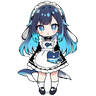
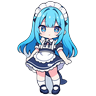
v0.10.2：修鲸尾灰鳍缺陷+启动空屏—— ①主锚定 555 裙摆右侧灰色刃为全图派生源缺陷：用 271828 大鲸尾候选 PIL 合成移植（擦灰刃(492,848,682,985)+羽化贴尾(545,800)-(800,1085)+近白清理）得 masterB_555_tailled_final，30 张全部重新派生入仓；左鳍为正常鲸尾勿擦 ②window init 多余 setText('') 会清掉刚显示的表情/位图（启动空屏回归，offscreen 测试捕获）；删之 ③新增 spikes/test_v10_ai_provider.py 11/11（30张解析/降级/skin/get_

diff --git a/spikes/test_v10_ai_provider.py b/spikes/test_v10_ai_provider.py
@@ -1,0 +1,130 @@
+"""v0.10 AIArtProvider 接入验证（win 端，offscreen 渲染）。
+
+覆盖：① 30 张 (stage,branch,mood) 静态图全部可解析且文件存在
+② 缺文件/空目录 → 降级 EmojiProvider 不崩
+③ skin 非 default 后缀 + 缺失降级
+④ get_frames 返回 AI 静帧单帧（v0.10.1 防闪烁约定）
+⑤ WindowBase 渲染分支：file→QPixmap、emoji→文本、启动即显示（非空）
+"""
+import os
+import sys
+import tempfile
+
+os.environ.setdefault("QT_QPA_PLATFORM", "offscreen")
+sys.path.insert(0, os.path.dirname(os.path.dirname(os.path.abspath(__file__))))
+
+from PySide6.QtWidgets import QApplication
+
+app = QApplication.instance() or QApplication([])
+
+from pet.asset_provider import AIArtProvider, EmojiProvider
+from pet.behavior import ActionType
+from pet.pet_state import Branch, Mood, PetState, Stage
+from pet.window import WindowBase
+
+ASSETS = os.path.join(
+    os.path.dirname(os.path.dirname(os.path.abspath(__file__))), "assets", "ai"
+)
+SIZE = {"young": 64, "adult": 96, "final": 128}
+
+passed = 0
+
+
+def ok(name: str) -> None:
+    global passed
+    passed += 1
+    print(f"  ✅ {name}")
+
+
+def state_for(stage, branch, mood):
+    m = {"happy": 80, "neutral": 30, "sad": 10}
+    return PetState(
+        mood=m.get(mood, 80),
+        fullness=10 if mood == "hungry" else 80,
+        stage=Stage(stage),
+        branch=Branch(branch),
+    )
+
+
+def mood_for(state, provider, idle=None) -> Mood:
+    if idle is not None:
+        return provider.get_static(state).path and None
+    return None
+
+
+# ---------- ① 30 张全部可解析 ----------
+print("== ① 30 张静态图解析 ==")
+p_ai = AIArtProvider(idle_fn=None)
+for stage in ("young", "adult", "final"):
+    for branch in ("healthy", "neglected"):
+        for mood in ("happy", "neutral", "sad", "sleepy", "hungry"):
+            state = state_for(stage, branch, mood)
+            # sleepy/hungry 直接构造 mood 文件路径：sleepy 走 idle、hungry 走 fullness
+            sr = AIArtProvider(
+                idle_fn=(lambda: 700.0) if mood == "sleepy" else None
+            ).get_static(state)
+            expect = f"{stage}_{branch}_{mood}.png"
+            assert sr.path.endswith(expect), f"{expect} -> {sr.path}"
+            assert os.path.isfile(sr.path), f"{sr.path} 文件不存在!"
+            assert sr.width == SIZE[stage] and sr.height == SIZE[stage]
+ok("全部 30 张路径解析/文件存在/尺寸正确")
+
+# ①b 情绪→mood 判定抽查
+assert AIArtProvider().get_static(state_for("adult", "healthy", "happy")).path.endswith("adult_healthy_happy.png")
+assert AIArtProvider().get_static(state_for("adult", "healthy", "sad")).path.endswith("adult_healthy_sad.png")
+assert AIArtProvider(idle_fn=lambda: 700.0).get_static(state_for("adult", "healthy", "sleepy")).path.endswith("_sleepy.png")
+assert AIArtProvider().get_static(state_for("adult", "healthy", "hungry")).path.endswith("_hungry.png")
+ok("情绪判定（happy/sad/sleepy-idle/hungry）正确")
+
+# ---------- ② 缺文件降级 ----------
+print("== ② 缺失降级 ==")
+p_empty = AIArtProvider(assets_dir=tempfile.mkdtemp())
+sr = p_empty.get_static(state_for("adult", "healthy", "neutral"))
+assert not os.path.isfile(sr.path)  # 返回 emoji 字符串
+assert len(sr.path) <= 8  # emoji 字符
+ok("空目录 → emoji 降级不崩")
+sr = p_empty.get_frames(state_for("adult", "healthy", "neutral"), ActionType.MOVE_TO)
+assert len(sr) >= 1 and not os.path.isfile(sr[0].path)
+ok("降级 get_frames 正常")
+
+# ---------- ③ skin ----------
+print("== ③ skin 后缀 ==")
+sr = p_ai.get_static(state_for("adult", "healthy", "neutral"), skin="swimsuit")
+assert not os.path.isfile(sr.path)  # 无 swimsuit 文件 → emoji 降级
+ok("skin 自定义缺失 → 降级")
+
+# ---------- ④ get_frames AI 静帧 ----------
+print("== ④ get_frames ==")
+fr = p_ai.get_frames(state_for("adult", "healthy", "neutral"), ActionType.ANIMATE)
+assert len(fr) == 1 and fr[0].path.endswith("adult_healthy_neutral.png")
+ok("ANIMATE 返回 AI 静帧单帧（不闪 emoji）")
+
+# ---------- ⑤ 窗口渲染 ----------
+print("== ⑤ WindowBase 渲染 ==")
+# 5a 启动即显示（小图 64×64 模式）：init 后位图非空
+w = WindowBase(p_ai.get_static(state_for("young", "healthy", "neutral")))
+assert w._sprite.path.endswith("young_healthy_neutral.png")
+assert not w._label.pixmap().isNull(), "启动 AI 图必显示位图"
+ok("启动 AI 图 → pixmap 非空")
+# 5b emoji SpriteRef init → 文本非空
+we = WindowBase(EmojiProvider().get_static(state_for("young", "healthy", "neutral")))
+txt = we._label.text()
+assert txt and len(txt) >= 1, f"emoji 启动应为文本（实际 text={txt!r}）"
+assert we._label.pixmap().isNull(), "emoji 模式不应有位图"
+ok("启动 emoji → 文本非空（防 init 清屏回归）")
+# 5c 切换：file → emoji（QLabel.pixmap() 从不返回 None，空状态=isNull）
+w.set_sprite(EmojiProvider().get_static(state_for("adult", "healthy", "neutral")))
+assert w._label.text() and w._label.pixmap().isNull(), \
+    f"file→emoji: text={w._label.text()!r} pixnull={w._label.pixmap().isNull()}"
+ok("file→emoji 切换正确")
+# 5d emoji → file
+w.set_sprite(p_ai.get_static(state_for("adult", "healthy", "neutral")))
+assert not w._label.pixmap().isNull(), "emoji→file 应切位图"
+ok("emoji→file 切换正确")
+# 5e provider 链：on_state_change
+w.set_sprite_provider(p_ai)
+w.on_state_change(state_for("final", "neglected", "sad"))
+assert not w._label.pixmap().isNull()
+ok("on_state_change → AI 位图")
+
+print(f"\n结果：{passed} 项通过")

diff --git a/pet/window.py b/pet/window.py
@@ -67,9 +67,8 @@ class WindowBase(QWidget):
         font.setPointSizeF(sprite.width * 0.62)
         self._label.setFont(font)
         self.set_sprite(sprite)
-        # v0.10：构造期走统一 set_sprite（图片/emoji 分支）
-        # （font 在 set_sprite 之后的 emoji 分支里调 → 需先设 label 再调）
-        self._label.setText("")  # 占位（set_sprite 会覆盖）
+        # v0.10：构造期走统一 set_sprite（图片/emoji 分支），
+        # 此后不得再 setText("")——会清掉刚显示的表情/位图（启动空屏回归）
 
         # 单击消歧：release 后延迟触发，期间来了双击则取消
         self._single_shot = QTimer(self)

diff --git a/AI立绘交接文档.md b/AI立绘交接文档.md
@@ -2,8 +2,8 @@
 
 > 交接日期：2026-08-22
 > 关联：`桌宠立绘生图指南.md`（需求源，74 张清单）/ `设计思路.md` §六（provider 三级）/ `版本规划.md` v0.10
-> 本会话已完成：驱动修复 + 全新 v2 全套 30 张静态立绘生成与入库 + SLEEPY 显示规则代码
-> **下一步工作对话的入口**：本文档 + `D:\Desktop-Pet\pet\asset_provider.py` + `D:\AI\ComfyUI\pet_v2_gen.py`
+> 本会话已完成：驱动修复 + 全新 v2 全套 30 张静态立绘生成与入库（含鲸尾灰鳍缺陷修复与全套重派生）+ SLEEPY 显示规则 + AIArtProvider 接入后验证
+> **工作入口**：本文档 + `D:\Desktop-Pet\pet\asset_provider.py` + `D:\AI\ComfyUI\pet_v2_gen.py`
 
 ---
 
@@ -14,11 +14,12 @@
 | 显卡驱动 nvlddmkm 蓝屏修复 | ✅ 592.01 → **610.88 WHQL**（WMI 版本 32.0.16.1088），升级后生图正常 |
 | 旧 v1 立绘（pet_sprites_final 44 张/旧 47 组） | ⛔ **作废**（用户判定风格不一致），勿再引用 |
 | v2 全新一套静态立绘 | ✅ **30 张齐**（3 阶段×2 分支×5 情绪），画风严格一致 |
+| 鲸尾灰鳍缺陷（用户反馈） | ✅ 已修：主锚定合成移植大鲸尾，30 张全套重新派生入仓（v0.10.2） |
 | 后处理（去背/裁剪/缩放/底对齐） | ✅ 全部完成，已入仓库 `assets/ai/` |
 | 动画帧 | ⏸ 按用户决策先留空（`assets/frames/` 只有 `.gitkeep`） |
 | SLEEPY 显示规则 | ✅ 已实现（代码+config+测试，见 §六） |
-| NEGLECTED 不压制 | ✅ 30 张按全情绪生成齐；AIArtProvider 接入时按 (stage,branch,mood) 全量取图即可 |
-| AIArtProvider 接入（v0.10 核心） | ⬜ 未做，见 §八 |
+| NEGLECTED 不压制 | ✅ 30 张按全情绪生成齐；AIArtProvider 按 (stage,branch,mood) 全量取图未压制 |
+| AIArtProvider 接入（v0.10 核心） | ✅ 已完成并提交（v0.10.0 provider/渲染/工厂 + v0.10.1 get_frames 单帧防闪烁 + v0.10.2 启动空屏修复与资产更新）；`config provider: ai` 已生效，冒烟无异常 |
 
 ---
 
@@ -38,9 +39,11 @@ D:\Desktop-Pet\assets\frames\.gitkeep                     # 空目录占位
 ### 生成原始图（832×1216 白底 RGB，评审用）
 ```
 D:\AI\ComfyUI\output\pet_v2\                         # v2 全部原始图 + 评审图
-  masterB_seed555_00001_.png                         # ★ 主锚定图（一切图的本源）
-  {stage}_{branch}_{mood}.png / _00001_/00002_ 编号  # 逐张原图（_00002_ 为情绪 0.44 版）
-  _sheet_master.png _sheet_bases_v3.png _sheet_{stage}.png _final_check.png  # 评审图
+  masterB_555_tailled_final.png                      # ★ 主锚定图（一切图的本源）
+  masterB_seed555_00001_.png                         # 前版主锚定（含灰色鳍缺陷，仅存史）
+  masterC_seed271828_00001_.png                      # 尾巴移植源（大鲸尾画得最好的候选）
+  {stage}_{branch}_{mood}.png / _0000X_ 编号         # 逐张原图（新轮次：neutral _00003_/其余 _00004_）
+  _sheet2_{stage}.png _final_check_v3.png _tail_verify2.png _tailled_final_check2.png  # 评审图
 D:\AI\ComfyUI\output\pet_sprites{,\_final}\ + pet_sprites\emotions\    # 旧 v1，作废勿用
 ```
 
@@ -64,10 +67,11 @@ cd /d/AI/ComfyUI && nohup ./venv/Scripts/python.exe main.py --port 8188 > /d/AI/
 ```
 
 ### 核心方法：主锚定层级派生（画风一致的根）
-1. **txt2img 主锚定**：`adult_healthy_neutral`，4 候选目检挑最佳 → 定稿 `masterB_seed555_00001_.png`（深蓝→亮青渐变发、鲸鱼鳍耳、腿后鲸尾可见、正面站姿、白底）
-2. **形态底图**（5 张）：主锚定 img2img 派生，denoise 0.44（healthy）/ 0.58 方向·实选 v3（neglected，灰调+脏污），全程 **DERIVE_SEED=777**
-3. **情绪**（24 张）：各形态底图 img2img 派生，**denoise 0.44**（0.34 版表情太淡已弃），seed = 777+i，只动脸部词
-4. 所有图与主锚定派生距离 ≤2 步 → 发色/线稿/上色习惯强统一
+1. **txt2img 主锚定**：`adult_healthy_neutral`，多候选目检挑最佳 → 定稿 masterB_seed555_00001_.png（深蓝→亮青渐变发、鲸鱼鳍耳、正面站姿、白底）
+2. **灰鳍缺陷修复（2026-08-22 用户反馈）**：555 稿裙摆右下灰色尖鳍是全图派生源缺陷 → 与 271828 候选（大鲸尾画得最好）做 **PIL 合成移植**：仅擦除右侧灰色刃 (492,848,682,985)，粘贴 271828 大鲸尾裁剪 (545,800)-(800,1085)（带其裙边衔接+13px 羽化），近白清理去阴影晕；**左侧蓝白鳍片为正常鲸尾鳍，勿擦**（曾误擦成浮空残片）。合成版 = `masterB_555_tailled_final.png` 定稿为最终主锚定
+3. **形态底图**（5 张）：主锚定 img2img 派生，denoise 0.44（healthy）/ 0.58（neglected，v3 强词），全程 **DERIVE_SEED=777**
+4. **情绪**（24 张）：各形态底图 img2img 派生，**denoise 0.44**（0.34 版表情太淡已弃），seed = 777+i，只动脸部词
+5. 所有图与主锚定派生距离 ≤2 步 → 发色/线稿/上色习惯强统一
 
 ### 关键参数（与旧管线不同处）
 | 项 | 值 |
@@ -114,25 +118,26 @@ pet_v2_postprocess.py：remove(session=u2net) → MinFilter(3) alpha 腐蚀(1px 
 
 ## 七、已知限制与坑
 
-1. **neglected 表情不够丧**：img2img 从主锚定笑脸派生，denoise ≤0.58 脸不易变丧；3 轮调参后接受"灰调+脏污围裙"区分（v3 选稿）。若用户仍不满意：可做独立"丧脸"主锚定或上 ControlNet
+1. ~~neglected 表情不够丧~~（已按灰调+脏污区分，可接受；要更强需独立丧脸锚定或 ControlNet）
 2. **情绪可读性**：0.44 版本特写可读（腮红/泪/张嘴/垂眼），64px 幼年形态会更模糊——如用户反馈辨不清，单情绪升 denoise 至 0.5 局部重出
-3. **文件名踩坑**：SaveImage 自动加 `_00001_`/`_00002_` 序号；glob `*_happy_*_00002_` 会失配（happy 与序号共用一个下划线），用 `*_00002_.png` 即可
+3. **文件名踩坑**：SaveImage 自动加 `_00001_`/`_00002_` 序号；glob `*_happy_*_00002_` 会失配（happy 与序号共用一个下划线），用 `*_0000X_` 且取最新编号即可；确认新轮次编号：neutral _00003_、其余情绪 _00004_
 4. **rembg 白边**：白裙边缘偶有 1px 残留，MinFilter 已腐蚀；若发现彩边改 u2netp 或加大腐蚀
-5. **驱动环境**（换会话可能失效）：nvlddmkm 蓝屏旧因、610.88 已修；bash 里 `Start-Process -Verb RunAs` 必须 `-Wait` 保活否则 UAC 被父 shell 退出取消；NVIDIA 下载防盗链 curl 要带 UA+Referer（详见记忆 `nv-driver-bsod-61088`）
-6. **测试环境**：win 端依赖只装在 CPython 3.12 绝对路径；跑测试加 `-u`（UTF-8 输出）
+5. **本版 ComfyUI 的 inpaint 不可用**：`VAEEncodeForInpaint`/`InpaintModelConditioning` 在本机 ComfyUI 0.33.0 都会整图重生成（noise_mask 语义问题），**改图勿用 inpaint**，用 PIL 合成移植（见 §三 方法②）或整图 txt2img 重出
+6. **驱动环境**（换会话可能失效）：nvlddmkm 蓝屏旧因、610.88 已修；bash 里 `Start-Process -Verb RunAs` 必须 `-Wait` 保活否则 UAC 被父 shell 退出取消；NVIDIA 下载防盗链 curl 要带 UA+Referer（详见记忆 `nv-driver-bsod-61088`）
+7. **测试环境**：win 端依赖只装在 CPython 3.12 绝对路径；跑测试加 `-u`（UTF-8 输出）
+8. **755 号左翼注意**：主锚定左下蓝白鳍片是角色正常鲸尾鳍（非缺陷），任何合成/擦除勿动它
 
 ---
 
-## 八、下一步（主要工作对话从这开始）
+## 八、已完成与后续路线（v0.10 已交付）
 
-**v0.10 接入 AIArtProvider**（按 `设计思路.md` §六 与 版本规划 v0.10 Must）：
-1. `asset_provider.py` 新增 `AIArtProvider`：`get_static` 读 `assets/ai/{stage}_{branch}_{mood}.png`（skin 非 default 加 `_{skin}` 后缀再找），缺文件/IO 异常 → 降级 EmojiProvider
-2. `window.py::set_sprite` 加图片渲染分支：`SpriteRef.path` 为文件路径（os.path.exists）→ QPixmap 加载+按 label 尺寸缩放显示；emoji 文本分支保留（降级用）
-3. `app.py`：`self.provider = _make_provider(self.cfg.get("provider", "emoji"), ...)`（emoji/ai/commission）——注意 EmojiProvider 的 idle_fn 注入方式要保留
-4. `config.example.json` 的 `"provider": "emoji"` 切 `"ai"` 实测：不同 (stage,branch,mood) 出不同图；删图模拟降级不崩；切回 emoji 养成/物理零改动（git diff 验证）
-5. 动画帧（后续）：`get_frames` 目前约定降级 emoji；接帧播放需 window/app 侧接线（MOVE_TO 交替/FALL/CLIMB/EAT_MOUSE 咀嚼循环等，指南批三为素材源）
+**已完成并提交**：AIArtProvider 读取 assets/ai 静态图（缺文件降级 emoji 不崩）、window QPixmap 渲染分支（file→位图/emoji→文本）、app `_make_provider` 工厂（config provider=emoji/ai/commission）、get_frames 返回 AI 静帧单帧（防 emoji 闪烁）→ v0.10.0/v0.10.1/v0.10.2；`spikes/test_v10_ai_provider.py` 11/11 + 回归 v02/v03/v05 绿。
 
-**补图工具**（若用户要求）：改 `pet_v2_gen.py` 的 EMOTIONS/BASES 后 `bases`/`emotions` 命令重跑，再跑 `pet_v2_postprocess.py` 入仓。
+**剩余项**：
+1. **动画帧（v0.10 后）**：`assets/frames/` 空目录待生成（指南批三 32 帧为素材源，但按用户决策"动画帧先留空"）；接帧播放需 window/app 侧接线（MOVE_TO 交替/FALL/CLIMB/EAT_MOUSE 咀嚼循环等），当前 get_frames 只回单帧
+2. **约稿 provider**：config `provider: commission` 暂走 AIArtProvider 同路径（读 assets/ 同命名约定，§六第 3 级留接口）
+
+**补图工具**（若用户要求）：改 `pet_v2_gen.py` 的 EMOTIONS/BASES 后 `bases`/`emotions` 命令重跑，再跑 `pet_v2_postprocess.py` 入仓；注意新轮次文件编号递增（取最新 `_0000X_`）。
 
 ---
 
